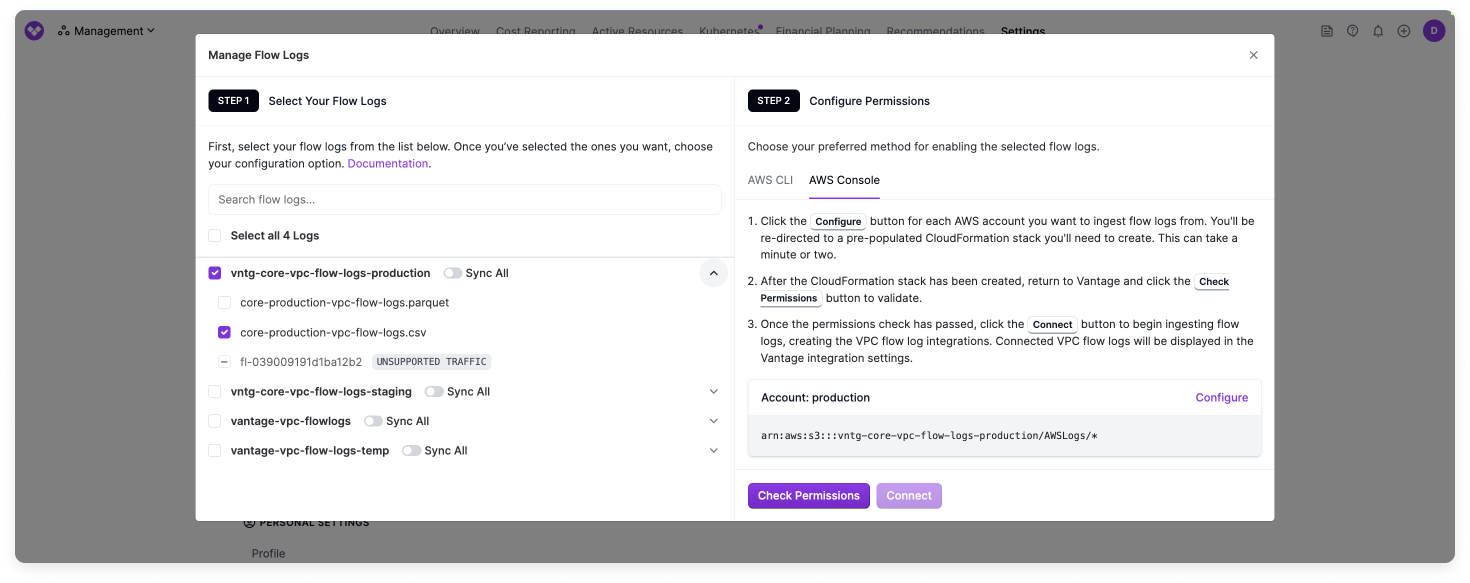
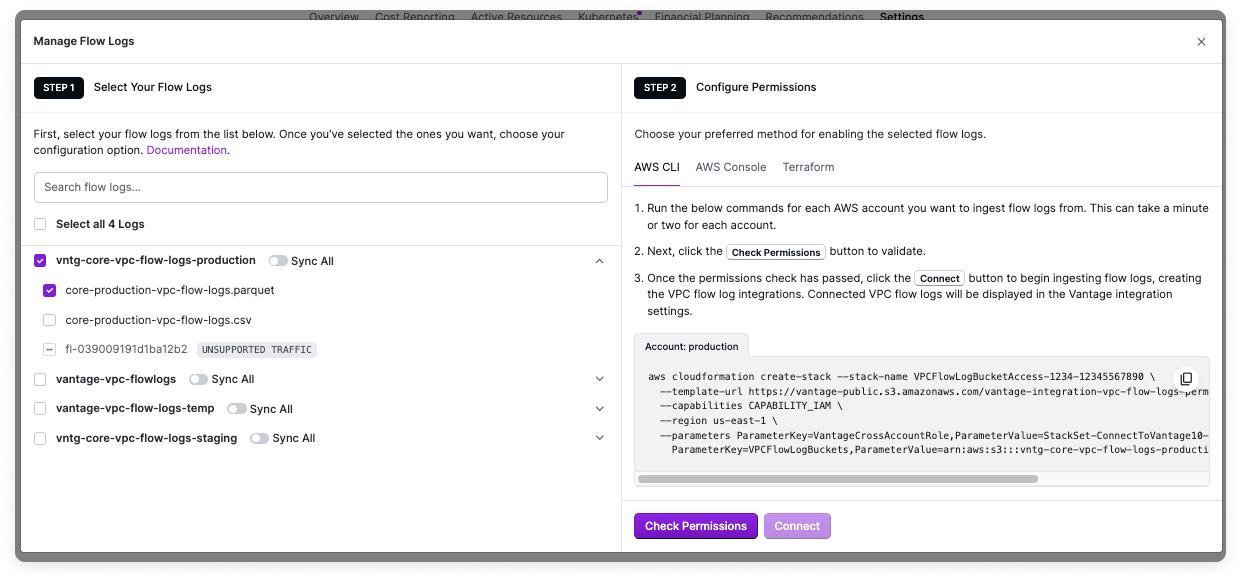
Add Terraform

diff --git a/docs/network_flow_reports.md b/docs/network_flow_reports.md
@@ -59,8 +59,8 @@ For more information about VPC Flow Logs pricing, see this [Cloud Cost Handbook 
     </div>
    </details>
 5. When you select the checkbox for a bucket, the **Sync All** toggle is automatically enabled. After the initial onboarding process, any new VPC Flow Logs added to that bucket will also be automatically synced each night. You can disable this option if you do not want the files to automatically sync.
-6. The right panel contains instructions on how to get set up using either the AWS CLI or the AWS Management Console. Select the tab for your preferred option. If you have multiple connected accounts with VPC Flow Logs, instructions or code samples are provided for each account.
-7. After you run the code in the AWS CLI or complete the steps in the AWS Management Console, click **Check Permissions**. A message is displayed that indicates whether the bucket permissions were successfully set up or if they are missing. A red **X** is displayed next to any buckets in the left panel that do not have sufficient permissions. Some log files may also be unsupported. See the [section below](/network_flow_reports#unsupported-logs) for details.
+6. The right panel contains instructions on how to get set up using the AWS CLI, AWS Management Console, or the [Vantage Terraform provider](/terraform). Select the tab for your preferred option. If you have multiple connected accounts with VPC Flow Logs, instructions or code samples are provided for each account.
+7. After you run the code in the AWS CLI, deploy your Terraform configuration, or complete the steps in the AWS Management Console, click **Check Permissions**. A message is displayed that indicates whether the bucket permissions were successfully set up or if they are missing. A red **X** is displayed next to any buckets in the left panel that do not have sufficient permissions. Some log files may also be unsupported. See the [section below](/network_flow_reports#unsupported-logs) for details.
    <details><summary>Click to view example image</summary>
     <div style={{display:"flex", justifyContent:"center"}}>
     <img alt="Network Flow Report onboarding page with a bucket selected and showing a message that says Permissions are good" width="100%" src="/img/nfr-permissions.png" />
@@ -127,10 +127,11 @@ Follow the steps below to create a new Network Flow Report:
 
    - At the top of the report, a [Sankey diagram](https://en.wikipedia.org/wiki/Sankey_diagram) is provided. This diagram shows different network flows, based on your selected filters and grouping criteria. For example, in the image below, the nodes on the left side of the diagram show the sources of network traffic. Links, or network flows, flow from the nodes to their traffic destination (in this example, cross-AZ or public). The width of each flow corresponds with the volume of traffic, and the color corresponds with the source of the node (e.g., yellow for _public_ in the example below).
    <div style={{display:"flex", justifyContent:"center"}}>
-   <img alt="Sample Network Flow Report with cross-AZ and public traffic" width="8100%" src="/img/nfr-start.png" />
+   <img alt="Sample Network Flow Report with cross-AZ and public traffic" width="100%" src="/img/nfr-start.png" />
    </div>
    - In the table below the diagram, the network flow information is displayed along with the volume of traffic (in bytes). The table is sorted in descending order by the **Estimated Cost** column. Click any column header to change the sort order. Each flow shows the estimated cost associated with that specific traffic route, helping you identify the most expensive data transfers. (See the [section below](/network_flow_reports#estimated-cost) for details on how the Estimated Cost column is calculated.)
    - For each listed resource, a link to the [**Active Resources** screen](/active_resources) is provided. Click this link to view additional metadata about the resource. From the **Active Resources** screen, click the **Relationships** tab to view any associated resources, such as a corresponding IGW for a VPC resource.
+   <details><summary>Click to view example image</summary>
    <div style={{ 
        display: "flex", 
        justifyContent: "center" 
@@ -153,6 +154,7 @@ Follow the steps below to create a new Network Flow Report:
        />
        </div>
    </div>
+   </details>
 
 5. You can update the criteria displayed in the Sankey diagram with the following options:
    - By default, both egress and ingress traffic are displayed. Expand the **Flow Direction** menu above the diagram to change the flow to only **Egress** or **Ingress**.
@@ -491,7 +493,11 @@ The below Cost Report is grouped by **Service** and **Resource**.
 
 ## Network Flow Report Examples {#nfr-examples}
 
-The following examples demonstrate common scenarios for using Network Flow Reports. These examples are based on the three reports that Vantage provides by default: _All Network Flow Logs_, _Cross-AZ Traffic_, _Public Traffic Destinations_.
+The following examples demonstrate common scenarios for using Network Flow Reports. These examples are based on the three reports that Vantage provides by default: _All Network Flow Logs_, _Cross-AZ Traffic_, and _Public Traffic Destinations_.
+
+<div style={{display:"flex", justifyContent:"center"}}>
+<img alt="Sample Network Flow Report with cross-AZ and public traffic" width="80%" src="/img/nfr-sample.png" />
+</div>
 
 ### Example 1: View All Network Traffic
 
